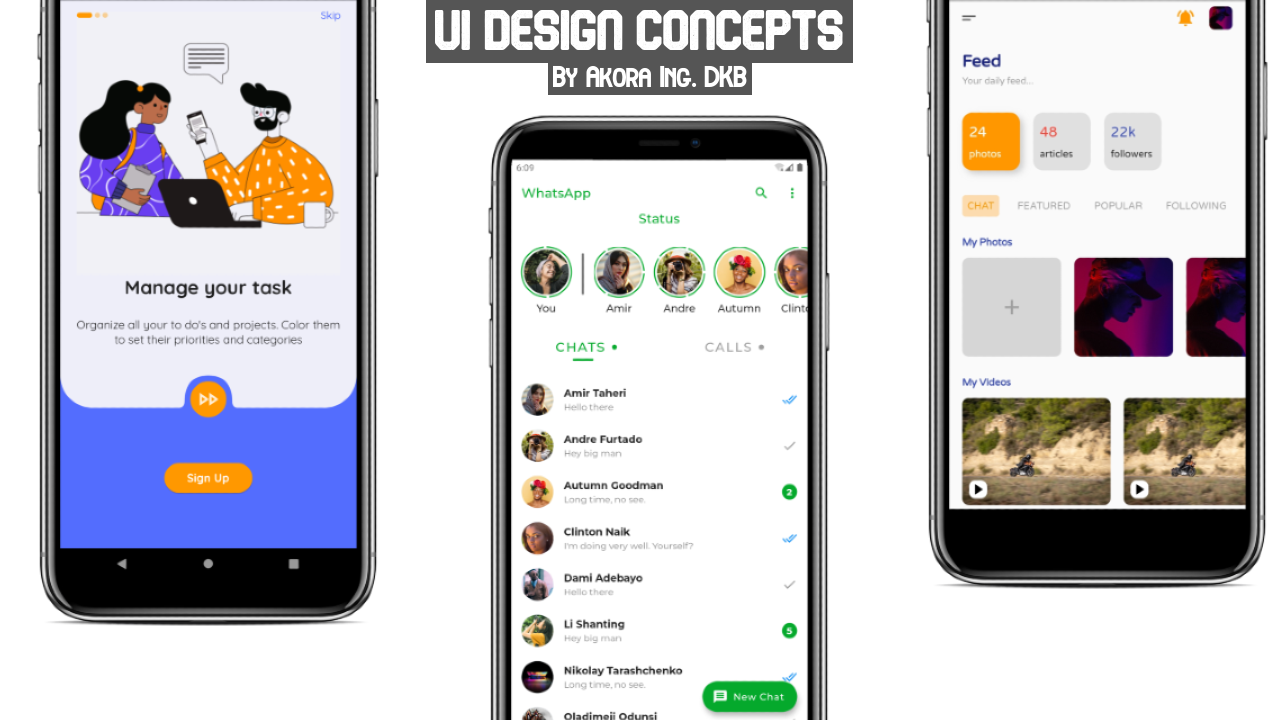
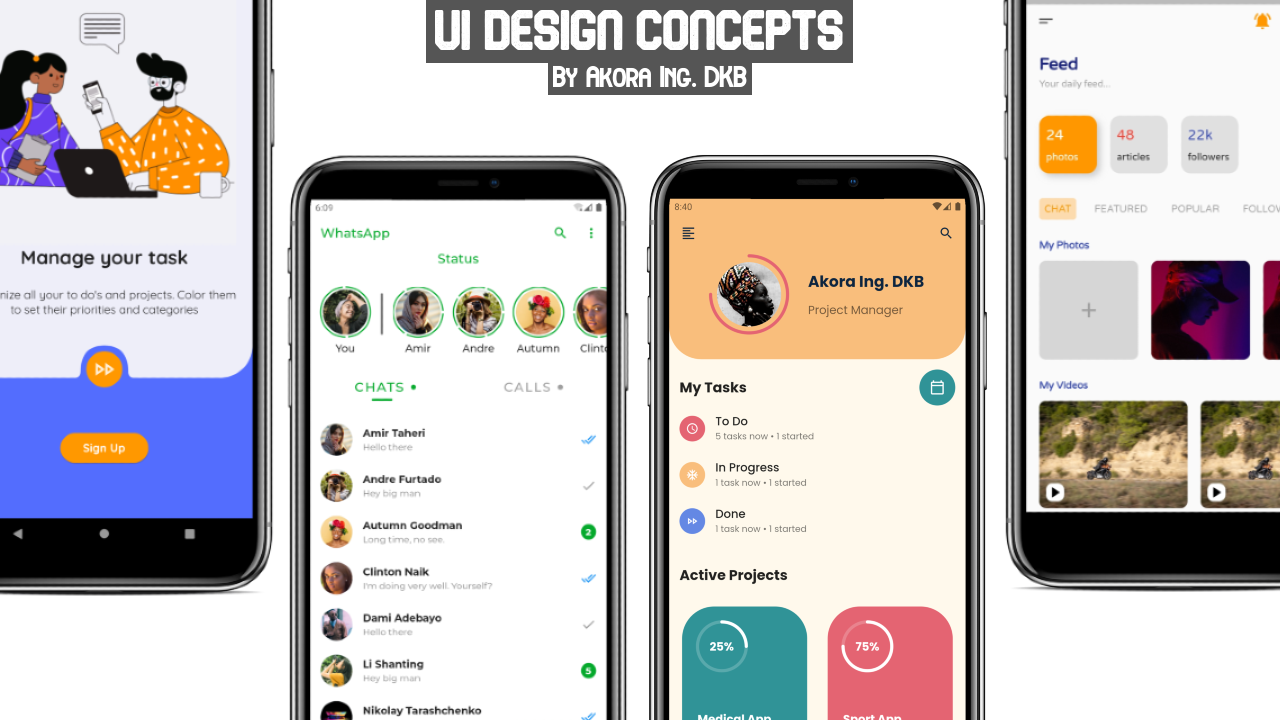
Updated readmes

diff --git a/project_manager/README.md b/project_manager/README.md
@@ -1,16 +1,17 @@
-# project_manager
+# Project Management UI
 
-A new Flutter project.
+A mobile app onboarding concept cloned with Flutter.  
+[Original Design on Uplabs](https://www.uplabs.com/posts/nature-landing-page-design) by [CMARIX TechnoLabs](https://www.uplabs.com/cmarixtechnolabs)  
 
-## Getting Started
+## Screenshots
 
-This project is a starting point for a Flutter application.
+| Home | Today's Tasks | Create Task |
+| :---: | :---: | :---: |
+| <img src="assets/shots/shot1.png"> | <img src="assets/shots/shot2.png"> | <img src="assets/shots/shot3.png"> |
 
-A few resources to get you started if this is your first Flutter project:
+### Original Design
+<img src="assets/shots/original_design.png" width='800'>
 
-- [Lab: Write your first Flutter app](https://flutter.dev/docs/get-started/codelab)
-- [Cookbook: Useful Flutter samples](https://flutter.dev/docs/cookbook)
-
-For help getting started with Flutter, view our
-[online documentation](https://flutter.dev/docs), which offers tutorials,
-samples, guidance on mobile development, and a full API reference.
+Made with :heart_eyes: by [Akora-IngDKB](https://github.com/Akora-IngDKB).  
+Follow me on [Twitter](https://twitter.com/Akora_IngDKB) and [Instagram](https://www.instagram.com/akora_ingdkb/)   
+Please show some :heart: by giving this repo as :star: as I will be updating it with time.  

diff --git a/README.md b/README.md
@@ -5,8 +5,9 @@ This repo contains UI Designs from popular inspiration websites that I have clon
 
 ## Content
 1. [Onboarding](https://github.com/Akora-IngDKB/ui-designs/tree/main/onboarding)
-2. [Social App](https://github.com/Akora-IngDKB/ui-designs/tree/main/social_app)
-2. [WhatsApp](https://github.com/Akora-IngDKB/ui-designs/tree/main/whatsapp)
+2. [Project Manager](https://github.com/Akora-IngDKB/ui-designs/tree/main/project_manager)
+3. [Social App](https://github.com/Akora-IngDKB/ui-designs/tree/main/social_app)
+4. [WhatsApp](https://github.com/Akora-IngDKB/ui-designs/tree/main/whatsapp)
 
 <br>
 <hr>
